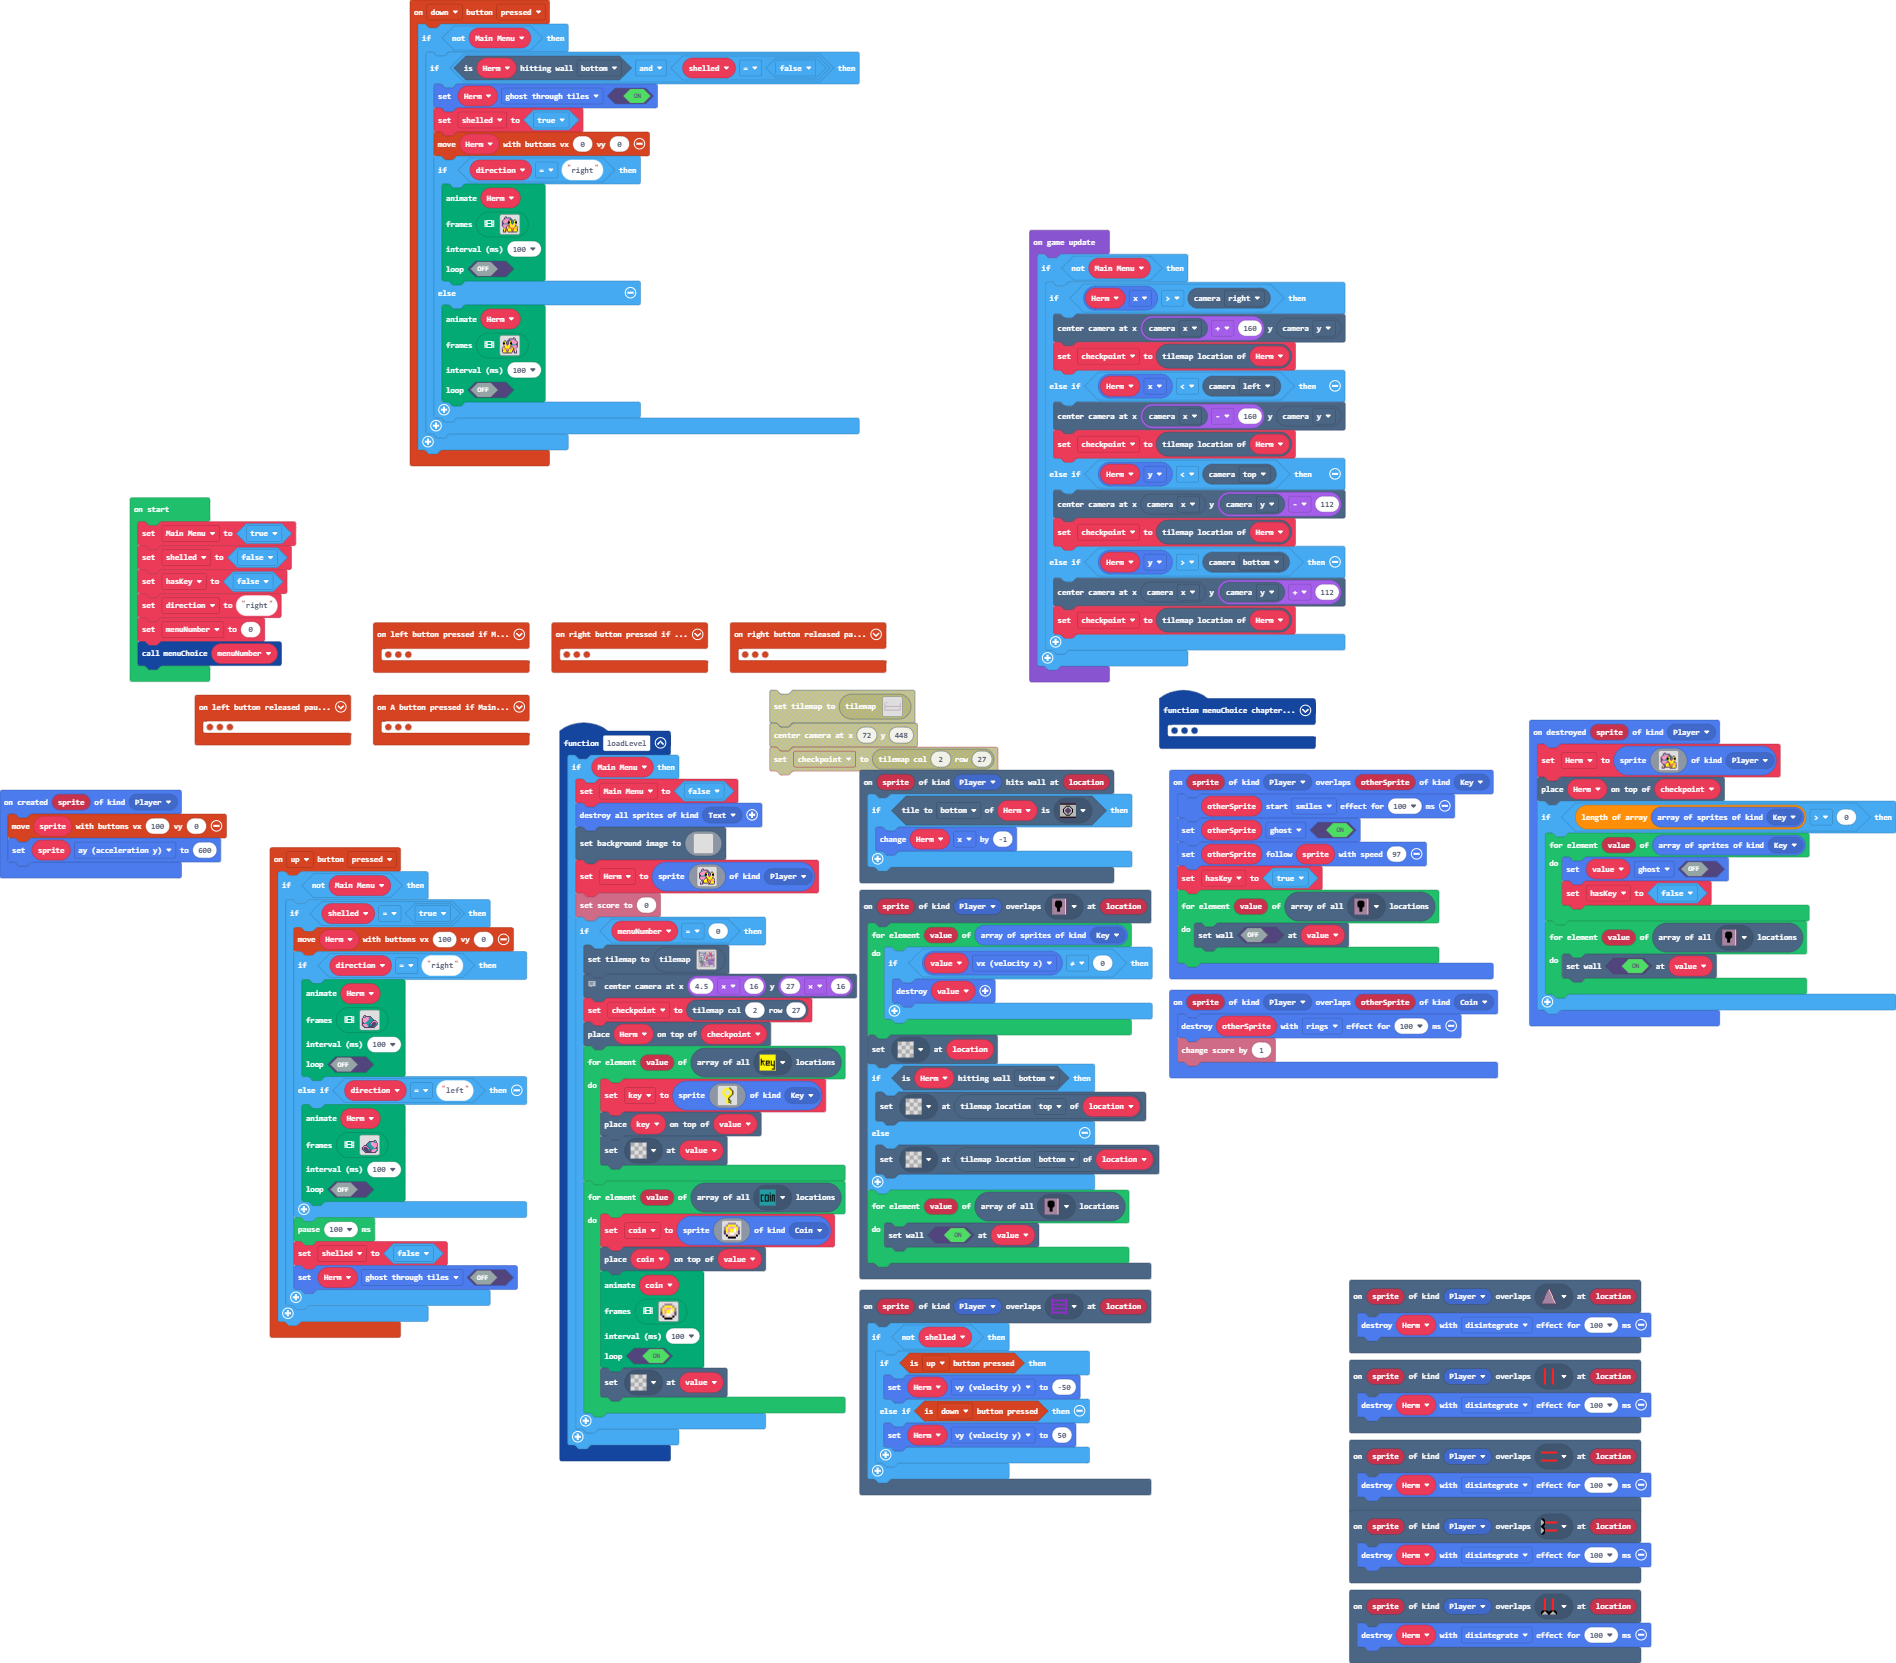
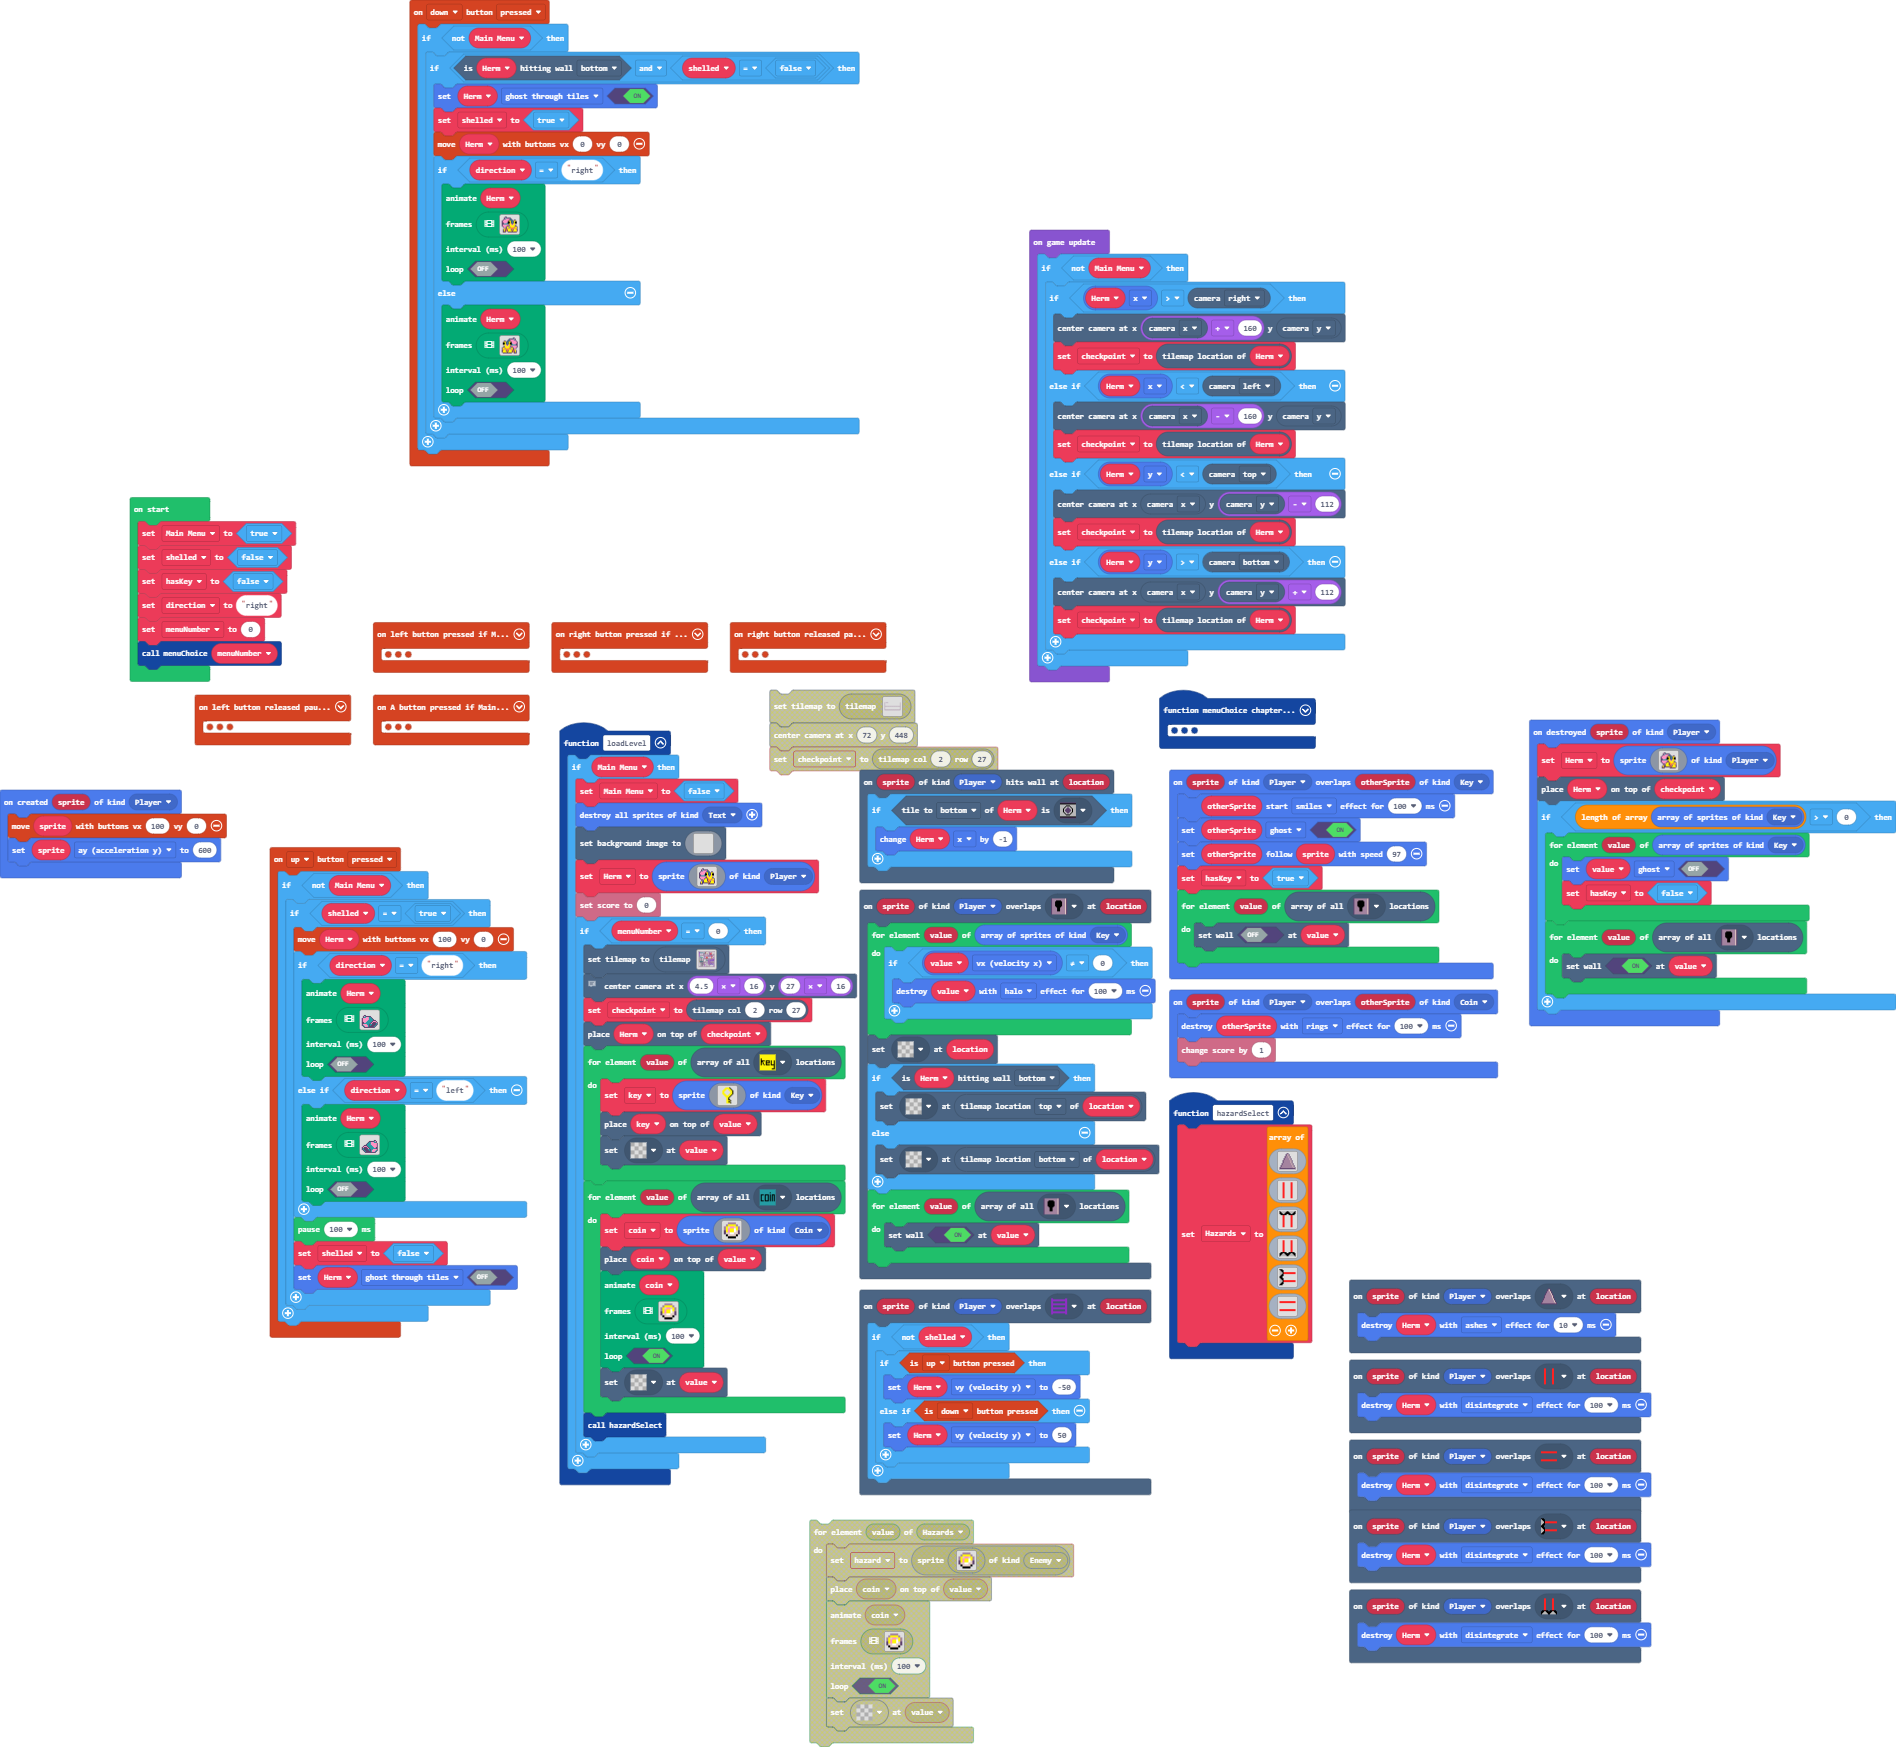
Update main.blocks, main.ts

diff --git a/main.ts b/main.ts
@@ -746,6 +746,7 @@ function loadLevel () {
                 )
                 tiles.setTileAt(value, assets.tile`transparency16`)
             }
+            hazardSelect()
         }
     }
 }
@@ -761,7 +762,7 @@ sprites.onOverlap(SpriteKind.Player, SpriteKind.Key, function (sprite, otherSpri
 scene.onOverlapTile(SpriteKind.Player, assets.tile`myTile8`, function (sprite, location) {
     for (let value of sprites.allOfKind(SpriteKind.Key)) {
         if (value.vx != 0) {
-            sprites.destroy(value)
+            sprites.destroy(value, effects.halo, 100)
         }
     }
     tiles.setTileAt(location, assets.tile`transparency16`)
@@ -1100,8 +1101,120 @@ controller.right.onEvent(ControllerButtonEvent.Released, function () {
     }
 })
 scene.onOverlapTile(SpriteKind.Player, assets.tile`myTile10`, function (sprite, location) {
-    sprites.destroy(Herm, effects.disintegrate, 100)
+    sprites.destroy(Herm, effects.ashes, 10)
 })
+function hazardSelect () {
+    Hazards = [
+    img`
+        . . . . . . . c c . . . . . . . 
+        . . . . . . c b d c . . . . . . 
+        . . . . . . c b d c . . . . . . 
+        . . . . . c b b b d c . . . . . 
+        . . . . . c b b b d c . . . . . 
+        . . . . c b b b b b d c . . . . 
+        . . . . c b b b b b d c . . . . 
+        . . . c b b b b b b b d c . . . 
+        . . . c b b b b b b b d c . . . 
+        . . . c b b b b b b b d c . . . 
+        . . c b b b b b b b b b d c . . 
+        . . c b b b b b b b b b d c . . 
+        . c b b b b b b b b b b b d c . 
+        . c b b b b b b b b b b b d c . 
+        c b b b b b b b b b b b b b d c 
+        c c c c c c c c c c c c c c c c 
+        `,
+    img`
+        . . . 2 2 . . . . . . 2 2 . . . 
+        . . . 2 2 . . . . . . 2 2 . . . 
+        . . . 2 2 . . . . . . 2 2 . . . 
+        . . . 2 2 . . . . . . 2 2 . . . 
+        . . . 2 2 . . . . . . 2 2 . . . 
+        . . . 2 2 . . . . . . 2 2 . . . 
+        . . . 2 2 . . . . . . 2 2 . . . 
+        . . . 2 2 . . . . . . 2 2 . . . 
+        . . . 2 2 . . . . . . 2 2 . . . 
+        . . . 2 2 . . . . . . 2 2 . . . 
+        . . . 2 2 . . . . . . 2 2 . . . 
+        . . . 2 2 . . . . . . 2 2 . . . 
+        . . . 2 2 . . . . . . 2 2 . . . 
+        . . . 2 2 . . . . . . 2 2 . . . 
+        . . . 2 2 . . . . . . 2 2 . . . 
+        . . . 2 2 . . . . . . 2 2 . . . 
+        `,
+    img`
+        f e e e e e e f f e e e e e e f 
+        f f e e e e f f f f e e e e f f 
+        f f f e e f f f f f f e e f f f 
+        . f f f f f f . . f f f f f f . 
+        . . . 2 2 . . . . . . 2 2 . . . 
+        . . . 2 2 . . . . . . 2 2 . . . 
+        . . . 2 2 . . . . . . 2 2 . . . 
+        . . . 2 2 . . . . . . 2 2 . . . 
+        . . . 2 2 . . . . . . 2 2 . . . 
+        . . . 2 2 . . . . . . 2 2 . . . 
+        . . . 2 2 . . . . . . 2 2 . . . 
+        . . . 2 2 . . . . . . 2 2 . . . 
+        . . . 2 2 . . . . . . 2 2 . . . 
+        . . . 2 2 . . . . . . 2 2 . . . 
+        . . . 2 2 . . . . . . 2 2 . . . 
+        . . . 2 2 . . . . . . 2 2 . . . 
+        `,
+    img`
+        . . . 2 2 . . . . . . 2 2 . . . 
+        . . . 2 2 . . . . . . 2 2 . . . 
+        . . . 2 2 . . . . . . 2 2 . . . 
+        . . . 2 2 . . . . . . 2 2 . . . 
+        . . . 2 2 . . . . . . 2 2 . . . 
+        . . . 2 2 . . . . . . 2 2 . . . 
+        . . . 2 2 . . . . . . 2 2 . . . 
+        . . . 2 2 . . . . . . 2 2 . . . 
+        . . . 2 2 . . . . . . 2 2 . . . 
+        . . . 2 2 . . . . . . 2 2 . . . 
+        . . . 2 2 . . . . . . 2 2 . . . 
+        . . . 2 2 . . . . . . 2 2 . . . 
+        . f f f f f f . . f f f f f f . 
+        f f f e e f f f f f f e e f f f 
+        f f e e e e f f f f e e e e f f 
+        f e e e e e e f f e e e e e e f 
+        `,
+    img`
+        f f f . . . . . . . . . . . . . 
+        e f f f . . . . . . . . . . . . 
+        e e f f . . . . . . . . . . . . 
+        e e e f 2 2 2 2 2 2 2 2 2 2 2 2 
+        e e e f 2 2 2 2 2 2 2 2 2 2 2 2 
+        e e f f . . . . . . . . . . . . 
+        e f f f . . . . . . . . . . . . 
+        f f f . . . . . . . . . . . . . 
+        f f f . . . . . . . . . . . . . 
+        e f f f . . . . . . . . . . . . 
+        e e f f . . . . . . . . . . . . 
+        e e e f 2 2 2 2 2 2 2 2 2 2 2 2 
+        e e e f 2 2 2 2 2 2 2 2 2 2 2 2 
+        e e f f . . . . . . . . . . . . 
+        e f f f . . . . . . . . . . . . 
+        f f f . . . . . . . . . . . . . 
+        `,
+    img`
+        . . . . . . . . . . . . . . . . 
+        . . . . . . . . . . . . . . . . 
+        . . . . . . . . . . . . . . . . 
+        2 2 2 2 2 2 2 2 2 2 2 2 2 2 2 2 
+        2 2 2 2 2 2 2 2 2 2 2 2 2 2 2 2 
+        . . . . . . . . . . . . . . . . 
+        . . . . . . . . . . . . . . . . 
+        . . . . . . . . . . . . . . . . 
+        . . . . . . . . . . . . . . . . 
+        . . . . . . . . . . . . . . . . 
+        . . . . . . . . . . . . . . . . 
+        2 2 2 2 2 2 2 2 2 2 2 2 2 2 2 2 
+        2 2 2 2 2 2 2 2 2 2 2 2 2 2 2 2 
+        . . . . . . . . . . . . . . . . 
+        . . . . . . . . . . . . . . . . 
+        . . . . . . . . . . . . . . . . 
+        `
+    ]
+}
 sprites.onDestroyed(SpriteKind.Player, function (sprite) {
     Herm = sprites.create(img`
         . . . c c . . . . . . . . . . . 
@@ -1142,6 +1255,7 @@ scene.onOverlapTile(SpriteKind.Player, assets.tile`myTile14`, function (sprite, 
 scene.onOverlapTile(SpriteKind.Player, assets.tile`myTile11`, function (sprite, location) {
     sprites.destroy(Herm, effects.disintegrate, 100)
 })
+let Hazards: Image[] = []
 let coin: Sprite = null
 let key: Sprite = null
 let checkpoint: tiles.Location = null
